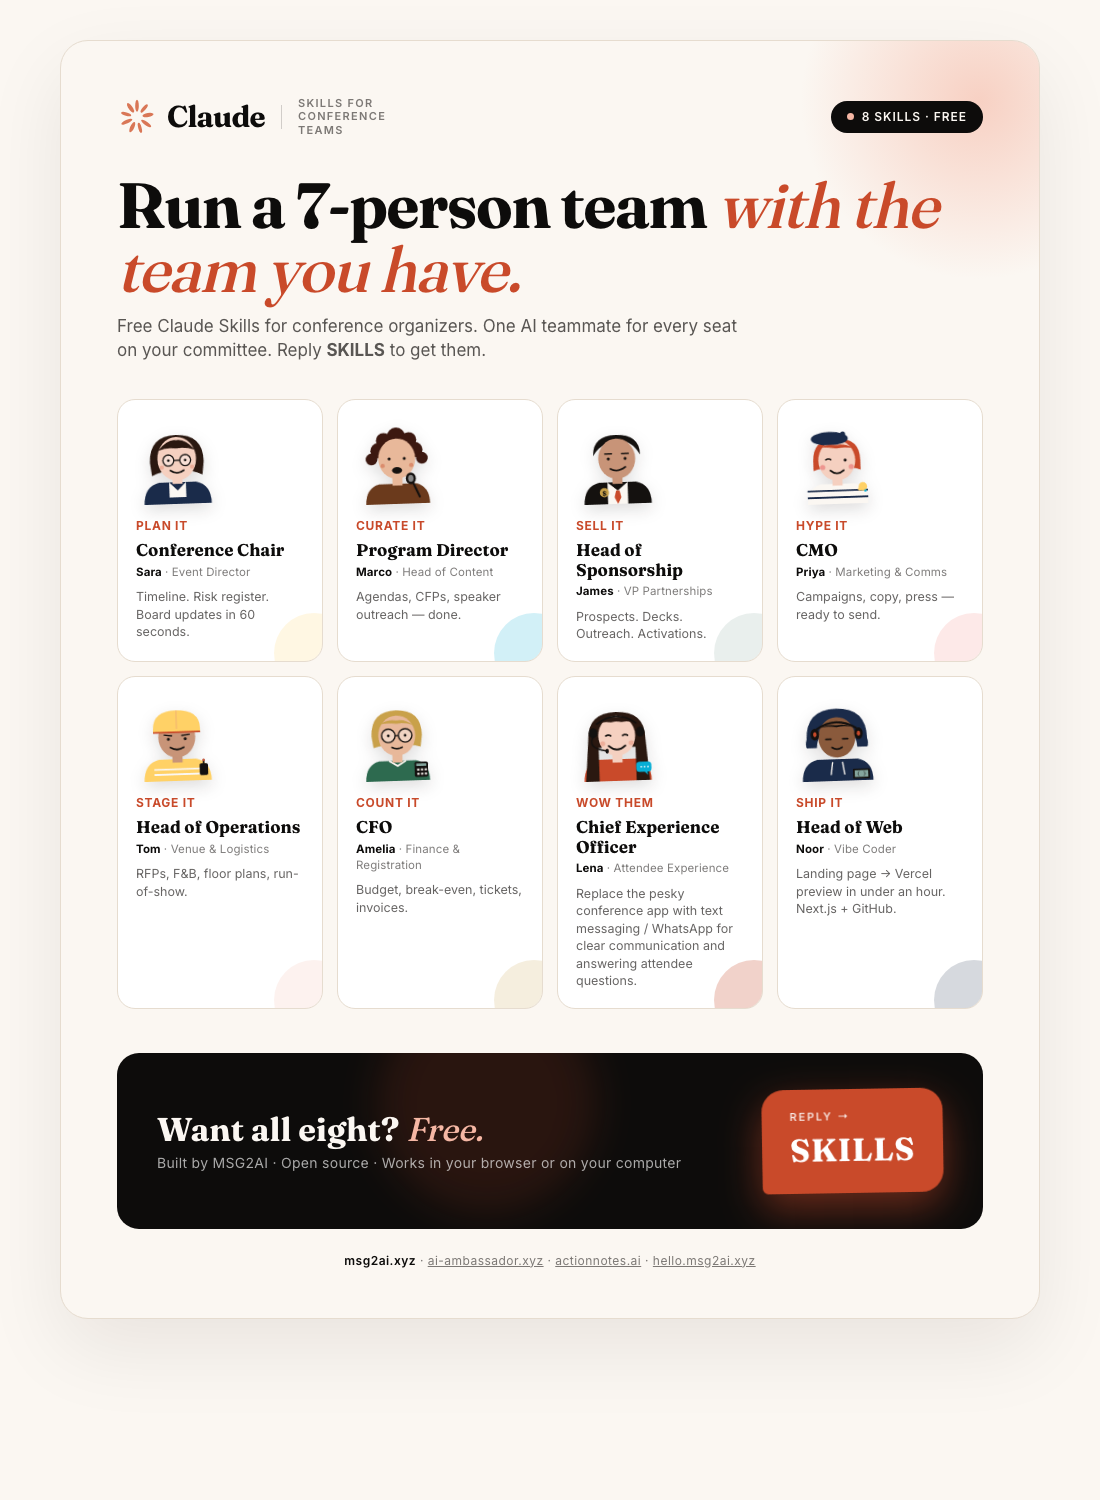
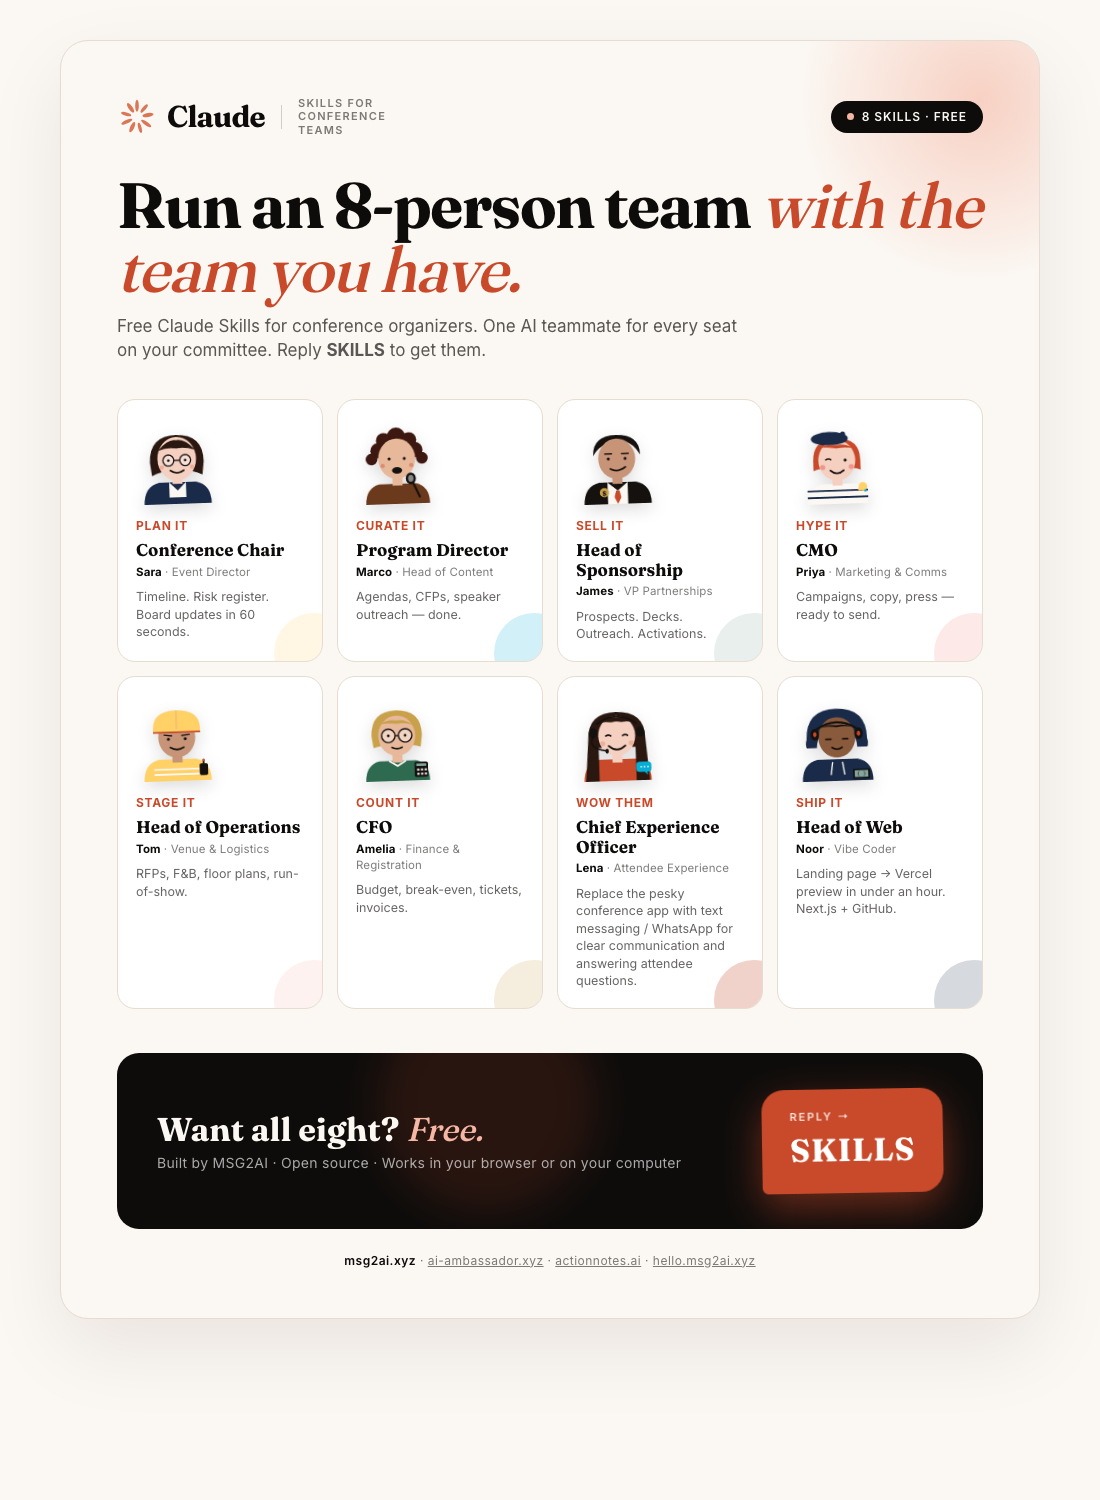
Visual: change headline from '7-person' to '8-person' to match the 8 skills

Changed region(s): [[0.2473, 0.1227, 0.8964, 0.184]]

diff --git a/docs/campaign-visual.html b/docs/campaign-visual.html
@@ -328,7 +328,7 @@
   </div>
 
   <!-- Headline -->
-  <h1 class="hero-h1 display">Run a 7-person team <em>with the team you have.</em></h1>
+  <h1 class="hero-h1 display">Run an 8-person team <em>with the team you have.</em></h1>
   <p class="hero-sub">Free Claude Skills for conference organizers. One AI teammate for every seat on your committee. Reply <strong>SKILLS</strong> to get them.</p>
 
   <!-- Skills grid (animated cartoons) -->
